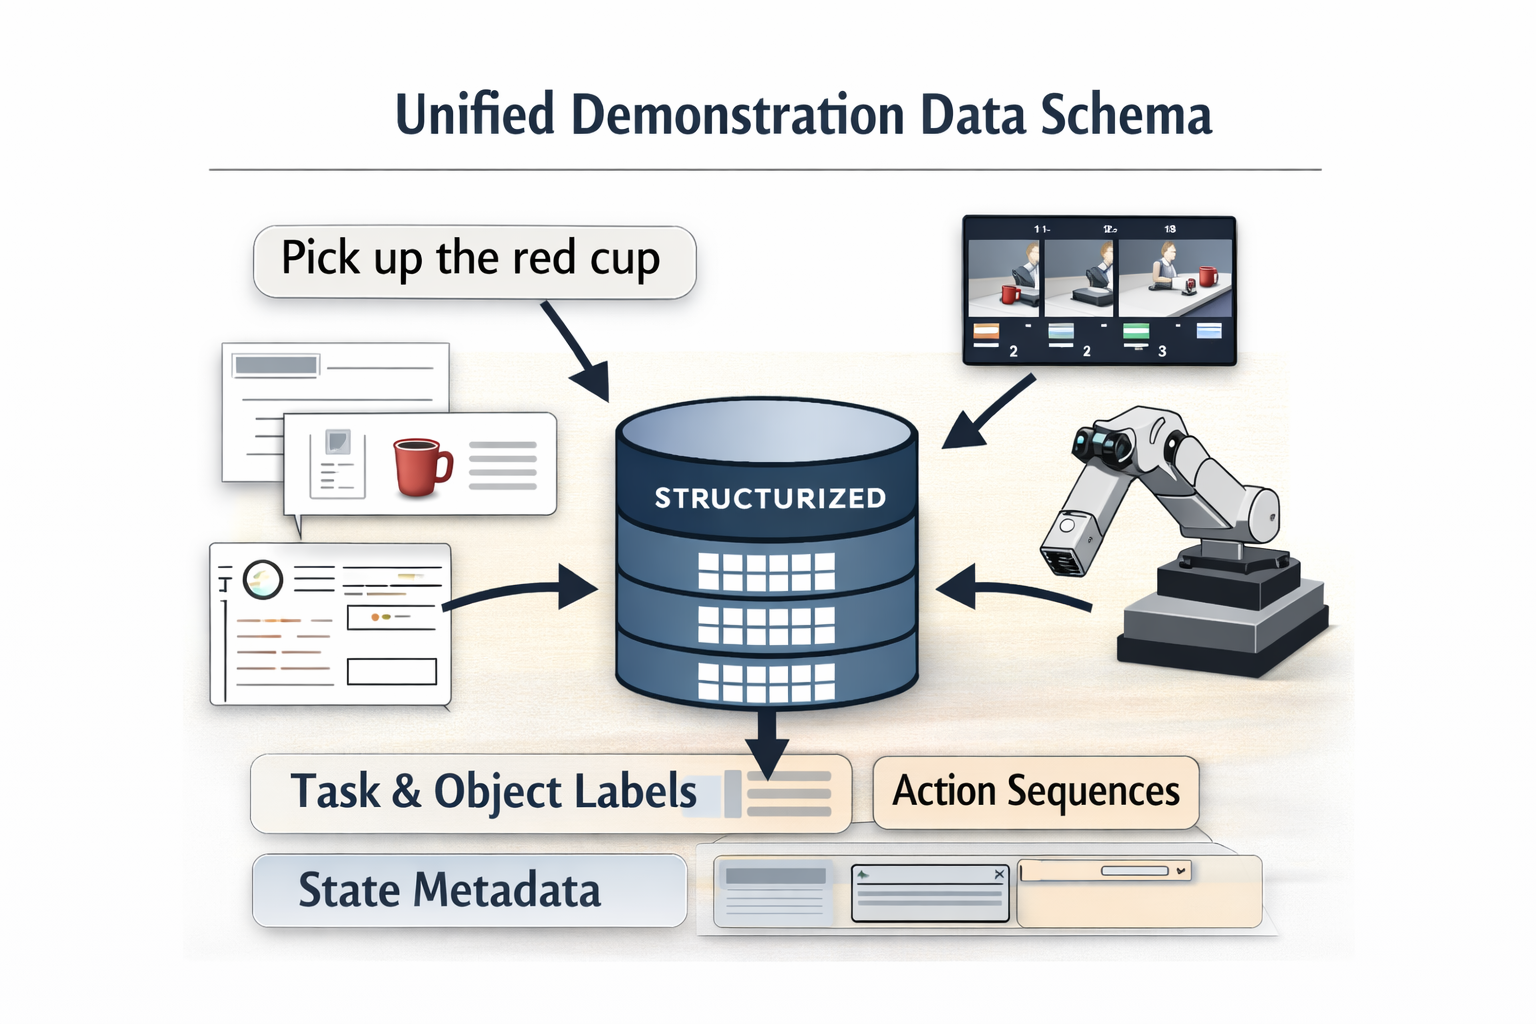
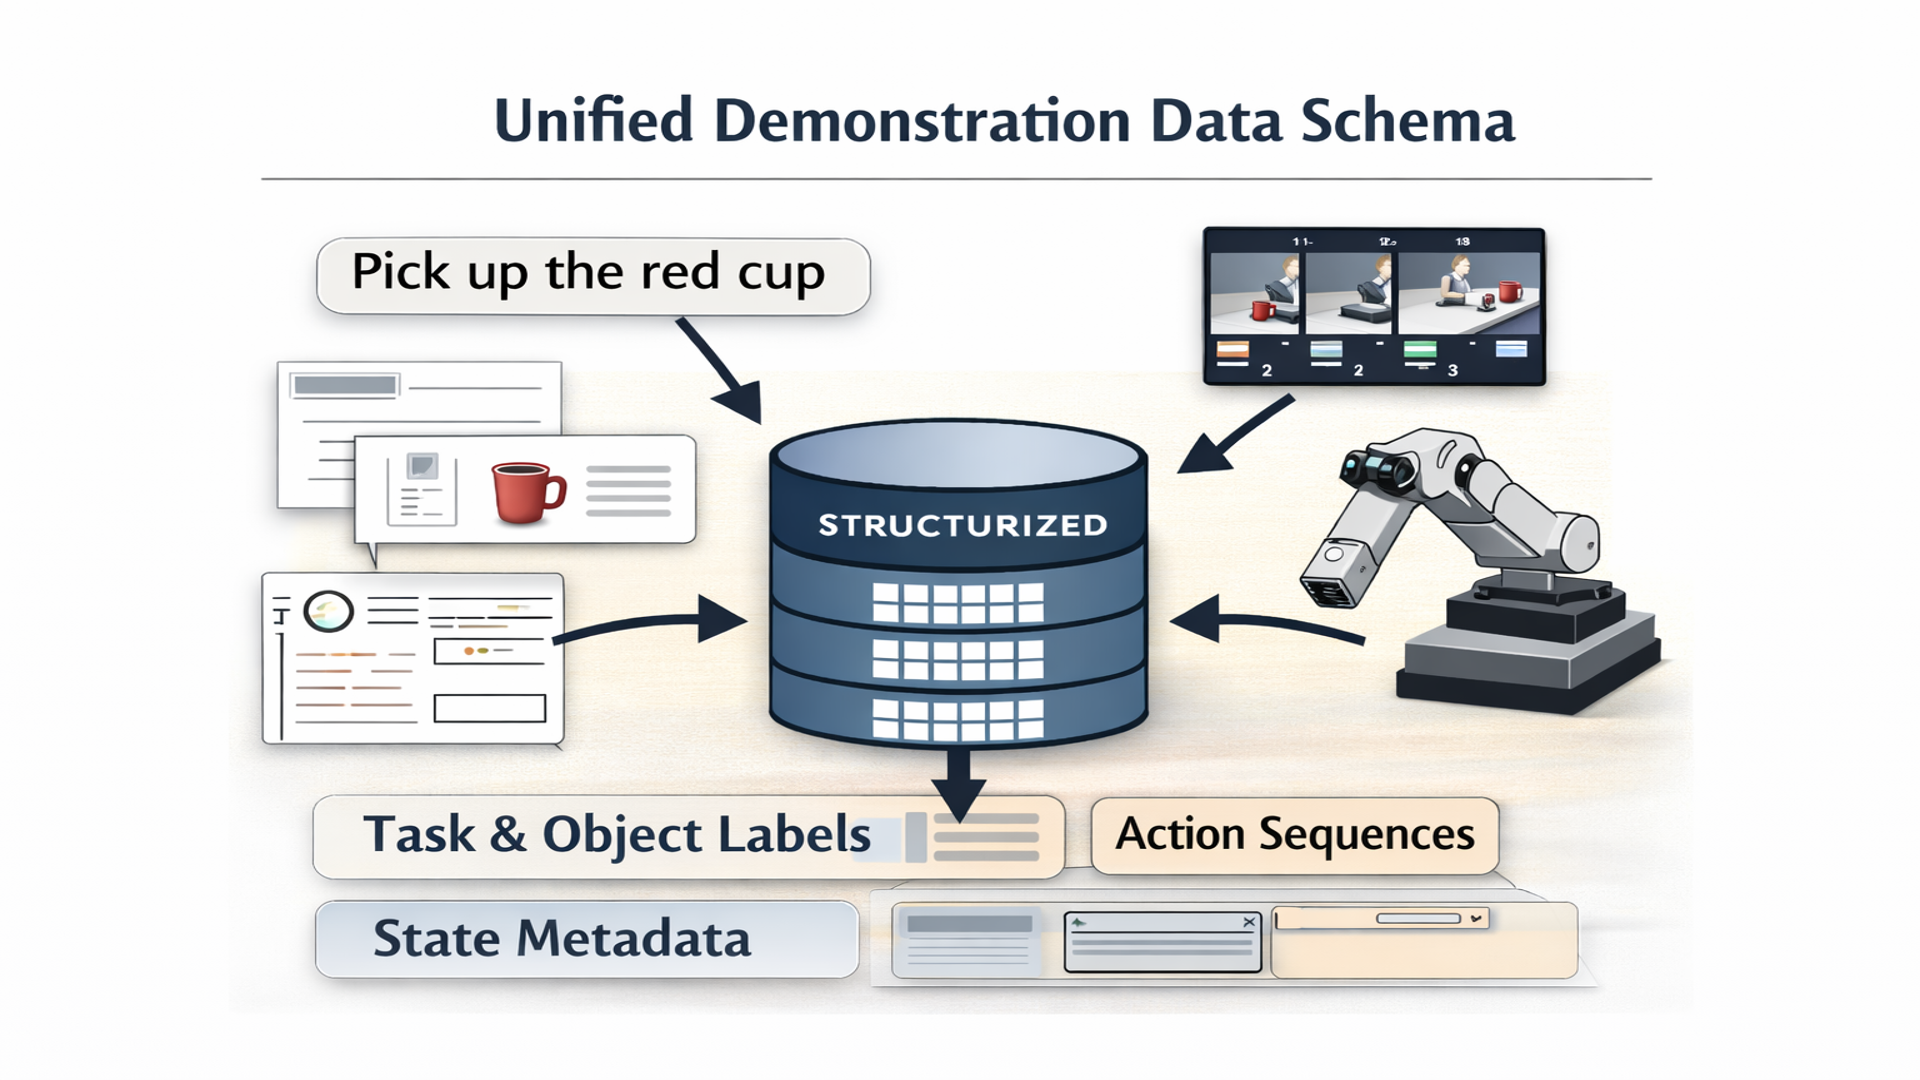
update images and subtitles

Changed region(s): [[0.5625, 0.8438, 0.6562, 0.875]]

diff --git a/index.html b/index.html
@@ -324,9 +324,7 @@
         <img src="static/images/teaser.png" loading="lazy" alt="Teaser">
       </div>
       <!-- TODO: Replace with your video description -->
-      <h2 class="subtitle has-text-centered">
-        TeachAnything, a cloud-based crowdsourcing demonstration platform that enables users to teach anytime and anywhere through multimodal demonstrations. 
-      </h2>
+     
     </div>
   </div>
 </section>
@@ -341,7 +339,7 @@
         <div class="content has-text-justified">
           <!-- TODO: Replace with your paper abstract -->
           <p>
-            Symmetrical Reality (SR) is emerging as future trend for human–agent coexistence, placing higher demands on agents to acquire human-like intelligence. It calls for richer and more diverse human guidance. We introduce a three-stage demonstration paradigm integrating multimodal demonstration signals. Building on this paradigm, we developed TeachAnything, a cloud-based, crowdsourcing-oriented demonstration platform with physics simulation capable of collecting diverse demonstration data across varied scenes, tasks, and embodiments. By unifying virtual and physical interactions through both methodological design and physics simulation, the system serves as a practical foundation for developing embodied agents aligned with Symmetrical Reality.
+            TeachAnything is a cloud-based crowdsourcing platform for collecting multimodal demonstrations to train embodied AI agents. The platform provides a unified environment for language, video, and teleoperation demonstrations, enabling users to initiate teaching anytime and anywhere for both predefined and user-defined tasks. With support for rich virtual scenes, multiple robot embodiments, and physics-based simulation, TeachAnything enables structured capture of diverse and complex demonstration data, including continuous manipulation trajectories. The platform serves as a scalable foundation for crowdsourced embodied learning across tasks, scenes, and interaction modalities.  
           </p>
         </div>
       </div>
@@ -360,26 +358,38 @@
         <!-- TODO: Replace with your research result images -->
         <img src="static/images/platform1.png" alt="First research result visualization" loading="lazy"/>
         <!-- TODO: Replace with description of this result -->
-        <h2 class="subtitle has-text-centered">
-          Unified Demonstration Data Schema and Annotation Protocols
-          We define a unified data schema and annotation protocol to standardize demonstrations collected from heterogeneous sources, including language instructions, video recordings, and teleoperation trajectories. By mapping multimodal demonstrations into a consistent and structured representation, the platform ensures alignment across tasks, embodiments, and environments, enabling reliable reuse of crowdsourced data for training and evaluation of embodied agents.
-        </h2>
+        <div style="max-width: 90%; margin: 0 auto;">
+          <p class="has-text-weight-semibold is-size-5 mb-1">
+            Unified Demonstration Data Schema and Annotation Protocols
+          </p>
+          <p class="is-size-6 has-text-grey-light" style="line-height: 1.6;">
+            We define a unified data schema and annotation protocol to standardize demonstrations collected from heterogeneous sources, including language instructions, video recordings, and teleoperation trajectories. By mapping multimodal demonstrations into a consistent and structured representation, the platform ensures alignment across tasks, embodiments, and environments, enabling reliable reuse of crowdsourced data for training and evaluation of embodied agents.
+          </p>
+        </div>
       </div>
       <div class="item">
         <!-- Your image here -->
         <img src="static/images/platform2.png" alt="Second research result visualization" loading="lazy"/>
-        <h2 class="subtitle has-text-centered">
-          Cross-Platform, Anytime and Anywhere Demonstration Collection
-          The platform is designed to support demonstration collection across multiple platforms and devices, allowing users to contribute teaching data anytime and anywhere. Through flexible interaction interfaces and diverse acquisition channels, demonstrations can be generated from different physical locations and usage contexts, enabling scalable and distributed crowdsourcing of embodied teaching data.
-        </h2>
+        <div style="max-width: 90%; margin: 0 auto;">
+          <p class="has-text-weight-semibold is-size-5 mb-1">
+            Cross-Platform, Anytime and Anywhere Demonstration Collection
+          </p>
+          <p class="is-size-6 has-text-grey-light" style="line-height: 1.6;">
+            The platform supports demonstration collection across multiple platforms and devices, allowing users to contribute teaching data anytime and anywhere. Flexible interaction interfaces and diverse acquisition channels enable scalable, distributed crowdsourcing of embodied teaching data across different locations and usage contexts.
+          </p>
+        </div>
       </div>
       <div class="item">
         <!-- Your image here -->
         <img src="static/images/platform3.png" alt="Third research result visualization" loading="lazy"/>
-        <h2 class="subtitle has-text-centered">
-         Three Fundamental Demonstration Modalities
-         The platform organizes human teaching into three fundamental modalities: language-based, video-based, and teleoperation-based demonstrations. This unified abstraction spans high-level semantic intent, perceptual grounding, and low-level continuous control, providing a coherent foundation for multimodal supervision and embodied agent learning.
-       </h2>
+        <div style="max-width: 90%; margin: 0 auto;">
+          <p class="has-text-weight-semibold is-size-5 mb-1">
+            Three Fundamental Demonstration Modalities
+          </p>
+          <p class="is-size-6 has-text-grey-light" style="line-height: 1.6;">
+            The platform organizes human teaching into three fundamental modalities: language-based, video-based, and teleoperation-based demonstrations. This unified abstraction spans high-level semantic intent, perceptual grounding, and low-level continuous control, providing a coherent foundation for multimodal supervision and embodied agent learning.
+          </p>
+        </div>
      </div>
   </div>
 </div>
